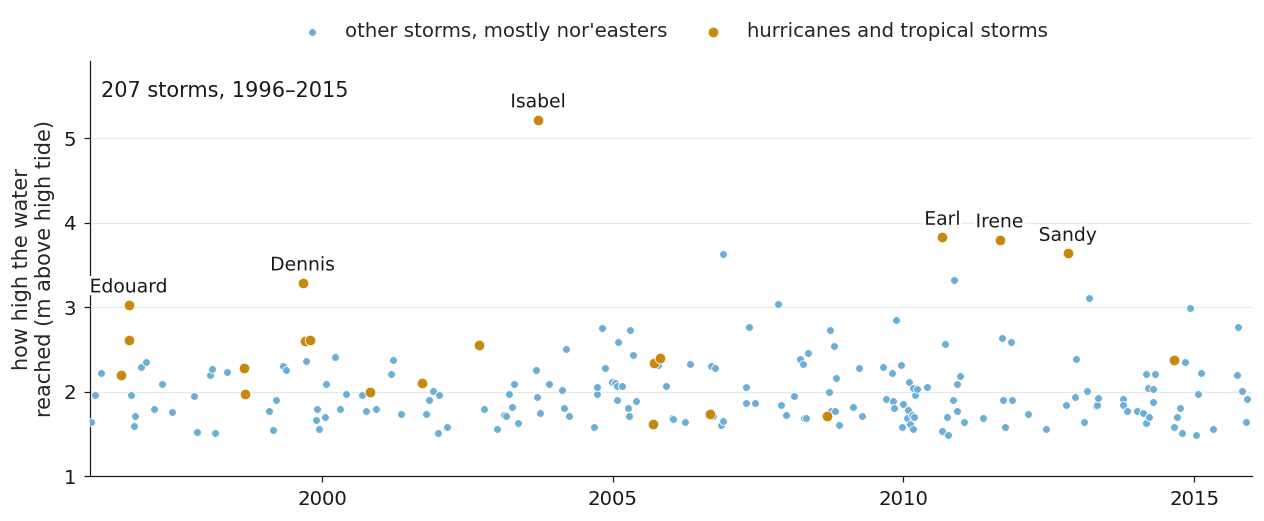
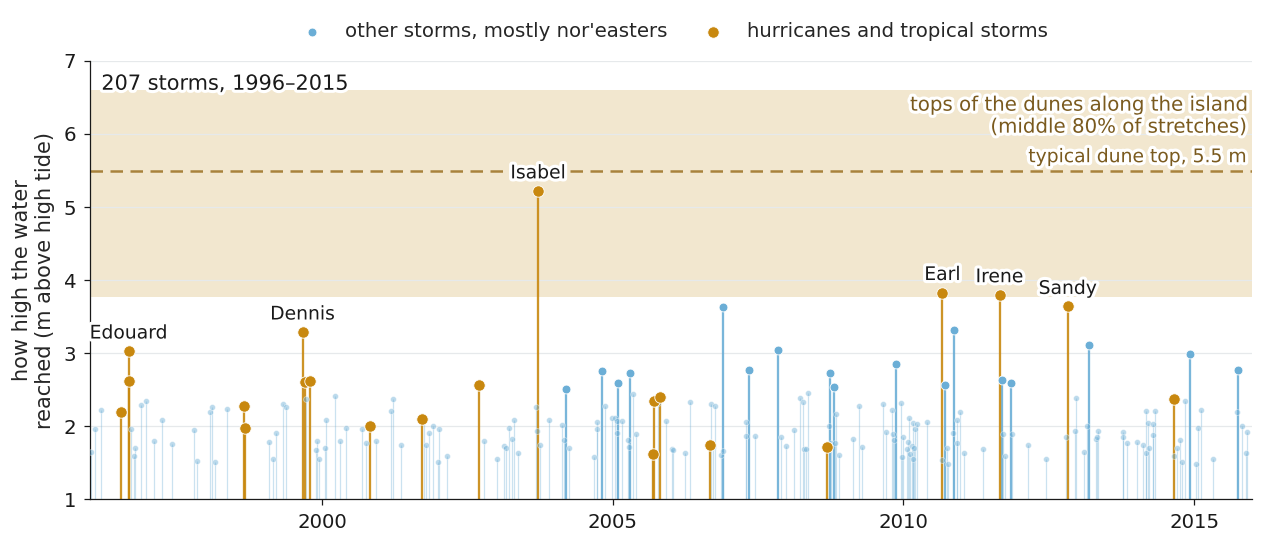
Set the storms against the dune heights and show the road on a photo
The storm chart on the model page now draws each storm as a stem, keeps the many small ones pale, and shades the range of dune heights along the island so it shows which storms could reach the top of a dune. The dune-to-road figure goes back to an aerial photo, with the road's centre line, the front of the dunes and the distance between them.

diff --git a/tools/hatteras_model_steps.py b/tools/hatteras_model_steps.py
@@ -21,7 +21,7 @@ step5_road.png come from tools/hatteras_model_stretch.py.
 Author:  Hannah A. Henry, Coastal Environmental Change Lab,
          University of North Carolina at Chapel Hill
 Contact: hahenry@unc.edu
-Version: 2026-10-03
+Version: 2026-10-04
 """
 import json
 import sys
@@ -54,6 +54,13 @@ FILL, ROAD, TROP, OTHER, SEA = "#c8880f", "#d55e00", "#c8880f", "#6baed6", "#216
 DOMAIN_KM = 0.5
 W_IN = 10.0
 STORM_NAME_M = 3.0              # named tropical storms at or above this water level, as on the Storms page
+SMALL_STORM_M = 2.5             # storms below this, and not tropical, are drawn small and pale so the big ones stand out
+# Dune crests for the storm figure (Hannah, 2026-10-04: show what the storms are up against): the island the 1996 run
+# starts from, the 10 m grids of the 2009-2014-1996 elevation product; on every 10 m row the highest point within
+# DUNE_ZONE_M of the ocean shoreline, the median of those per 500 m stretch, and the band spans the middle 80% of stretches.
+DUNE_PRODUCT = "2009-2014-1996"
+DUNE_ZONE_M = 150
+MHW_NAVD = 0.36                 # as in tools/hatteras_model_stretch.py
 halo = [pe.withStroke(linewidth=3, foreground="white")]
 
 
@@ -150,14 +157,52 @@ def step_offset():
     print("wrote step_offset.png")
 
 
+def dune_crests():
+    """Median dune-crest height above high tide for each of the 90 stretches, from the model's starting grids."""
+    import rasterio
+    from site_layer.hat_elevation_products import product
+    prod = product(DUNE_PRODUCT)
+    out = []
+    for g in io.GIS:
+        with rasterio.open(prod.resampled_10m / f"resampled_domain_{g}_filled.tif") as r:
+            z = r.read(1).astype(float)
+            z[z == r.nodata] = np.nan
+        z -= MHW_NAVD
+        crests = []
+        for row in z:
+            land = np.where(row > 0)[0]
+            if len(land):
+                east = land.max()                         # ocean on the east (right) side of every grid
+                crests.append(np.nanmax(row[max(0, east - DUNE_ZONE_M // 10 + 1):east + 1]))
+        out.append(np.nanmedian(crests) if crests else np.nan)
+    return np.array(out)
+
+
 def step3():
     t = json.loads((DATA / "timeline.json").read_text(encoding="utf-8"))
     s = [e for e in t["storms"] if START <= e["y"] < END + 1]
-    fig, ax = plt.subplots(figsize=(W_IN, 3.6))
-    for kind, col, size in (("other", OTHER, 14), ("tropical", TROP, 26)):
+    fig, ax = plt.subplots(figsize=(W_IN, 3.8))
+    crest = dune_crests()
+    lo, mid, hi = np.nanpercentile(crest, [10, 50, 90])
+    ax.axhspan(lo, hi, color="#e8d5a8", alpha=0.55, lw=0, zorder=1)
+    ax.axhline(mid, color="#a8823c", lw=1.2, ls=(0, (5, 3)), zorder=1)
+    ax.text(END + 0.9, hi - 0.08, "tops of the dunes along the island\n(middle 80% of stretches)", fontsize=9.5, color="#7a5a1e",
+            ha="right", va="top", zorder=4, path_effects=halo)
+    ax.text(END + 0.9, mid + 0.06, f"typical dune top, {mid:.1f} m", fontsize=9, color="#7a5a1e", ha="right", va="bottom", zorder=4,
+            path_effects=halo)
+    print(f"  dune crests: 10th {lo:.2f}, median {mid:.2f}, 90th {hi:.2f} m above high tide")
+    base = 1
+    for kind, col in (("other", OTHER), ("tropical", TROP)):
         d = [e for e in s if (e["type"] == "tropical") == (kind == "tropical")]
-        ax.scatter([e["y"] for e in d], [e["wl"] for e in d], s=size, color=col, edgecolors="white", linewidths=0.4, zorder=3,
-                   label="hurricanes and tropical storms" if kind == "tropical" else "other storms, mostly nor'easters")
+        for small in (True, False):
+            dd = [e for e in d if (kind == "other" and e["wl"] < SMALL_STORM_M) == small]
+            if not dd:
+                continue
+            ax.vlines([e["y"] for e in dd], base, [e["wl"] for e in dd], color=col, lw=0.6 if small else 1.1,
+                      alpha=0.35 if small else 0.9, zorder=2)
+            ax.scatter([e["y"] for e in dd], [e["wl"] for e in dd], s=8 if small else (30 if kind == "tropical" else 18),
+                       color=col, alpha=0.45 if small else 1, edgecolors="white", linewidths=0.4, zorder=3,
+                       label=None if small else ("hurricanes and tropical storms" if kind == "tropical" else "other storms, mostly nor'easters"))
     best = {}
     for e in s:
         if e["name"] and e["type"] == "tropical" and e["wl"] >= STORM_NAME_M and (e["name"] not in best or e["wl"] > best[e["name"]]["wl"]):
@@ -170,8 +215,9 @@ def step3():
     ax.set_ylabel("how high the water\nreached (m above high tide)", fontsize=10)
     ax.grid(axis="y", color=GRID, lw=0.6)
     ax.legend(frameon=False, fontsize=9.5, loc="lower center", bbox_to_anchor=(0.5, 1.0), ncol=2)
-    ax.set_ylim(1, max(e["wl"] for e in s) + 0.7)
-    ax.text(0.01, 0.95, f"{len(s)} storms, {START}–{END}", transform=ax.transAxes, fontsize=10, va="top", color=INK)
+    ax.set_ylim(base, max(hi, max(e["wl"] for e in s)) + 0.4)
+    ax.text(0.01, 0.97, f"{len(s)} storms, {START}–{END}", transform=ax.transAxes, fontsize=10, va="top", color=INK,
+            path_effects=halo, zorder=5)
     frame(ax)
     save(fig, 3)
 

diff --git a/tools/hatteras_model_stretch.py b/tools/hatteras_model_stretch.py
@@ -15,10 +15,10 @@ It is outlined on the whole-island map of step 2 (tools/hatteras_model_steps.py 
   step1_photo.jpg, step1_lidar.png, step1_grid.png  the same three views as bare, same-sized layers (1 px = 1 m) for
                    the drag slider in step 1 (Hannah, 2026-10-04: a slider instead of three stacked panels), and
                    step1_scale.png, the height colour scale for it
-  step5_road.png   shaded relief of the 2009 lidar (the 1 m surface above, lit from the north-west and tinted by height)
-                   with the 2009 digitised dune line and the 2008 NC-12 line, and the distance between them. Hannah
-                   asked (2026-10-04) for an image where the dunes stand out; in the 2007 photo used before they read
-                   as flat sand. Lines and lidar are of the same years, so they sit on each other. The model reads its own distance per stretch from the elevation grid
+  step5_road.png   the 2010 NC OneMap photo, where NC-12 shows clearly, with thin lines for the road's centreline (the
+                   2008 NC-12 line) and the front of the dunes (the 2009 digitised dune line) and the distance between
+                   them. Hannah asked (2026-10-04) for an aerial photo with the road clearly visible and an estimated
+                   distance from the road's centreline to the dune; 2010 is the photo nearest the years of the lines. The model reads its own distance per stretch from the elevation grid
                    (RoadSetback_1996_dunestart.csv, 170 m here); the caption on the page says so.
 Writes into assets/hatteras/img/model_steps/; the photos are cached in tools/data/model_stretch_gis<GIS>_<year>.jpg.
 
@@ -161,17 +161,13 @@ def main():
     from shapely.geometry import box as sbox
     clip = sbox(b.left + X0, b.bottom, b.left + X1, b.top)
     fig, ax = plt.subplots(figsize=(9.5, 9.5 * H / (X1 - X0) + 0.3))
-    from matplotlib.colors import LightSource
-    land = np.ma.masked_less(np.ma.masked_invalid(c1), 0)
-    ls = LightSource(azdeg=315, altdeg=35)
-    relief = ls.shade(np.ma.filled(land, 0), cmap=cmap, norm=norm, blend_mode="soft", vert_exag=3)
-    relief[np.ma.getmaskarray(land)] = (*matplotlib.colors.to_rgb(water), 1)
-    ax.imshow(relief, extent=ext, interpolation="bilinear")
-    for geom, col, lab in ((dune.intersection(clip), "#ffd23f", "front of the dunes (2009)"),
-                           (road.intersection(clip), "#d55e00", "NC-12 (2008)")):
+    ax.imshow(photo(b, 2010), extent=ext)
+    thin = [pe.withStroke(linewidth=2.6, foreground=INK)]
+    for geom, col, lab, style in ((dune.intersection(clip), "#ffd23f", "front of the dunes (2009)", "-"),
+                                  (road.intersection(clip), "#ff8c42", "centre of NC-12 (2008)", (0, (6, 3)))):
         for g in getattr(geom, "geoms", [geom]):
             x, y = local(g)
-            ax.plot(x, y, color=col, lw=2.6, path_effects=halo, label=lab)
+            ax.plot(x, y, color=col, lw=1.3, ls=style, path_effects=thin, label=lab)
             lab = None
     # the distance, measured east-west across the middle of the stretch
     ym = b.bottom + H / 2
@@ -188,7 +184,7 @@ def main():
     ax.set_xticks([])
     ax.set_yticks([])
     ax.legend(loc="lower left", fontsize=9.5, framealpha=0.92, edgecolor=INK)
-    ax.text(0.008, 0.97, "Shaded relief from lidar, 2009", transform=ax.transAxes, va="top", fontsize=10, color=INK,
+    ax.text(0.008, 0.97, "Aerial photo, 2010", transform=ax.transAxes, va="top", fontsize=10, color=INK,
             bbox=dict(boxstyle="square,pad=0.3", fc="white", ec=INK, lw=0.7, alpha=0.93))
     ax.plot([X1 - X0 - 260, X1 - X0 - 60], [40, 40], color="white", lw=3, solid_capstyle="butt", path_effects=halo)
     ax.text(X1 - X0 - 160, 60, "200 m", ha="center", va="bottom", fontsize=9, color="white", path_effects=halo)
